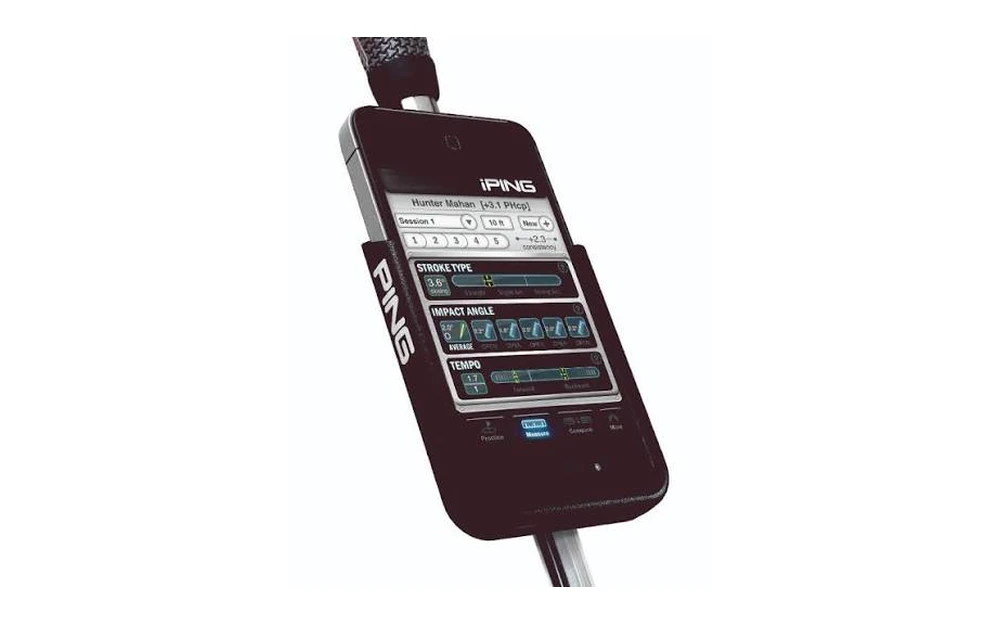
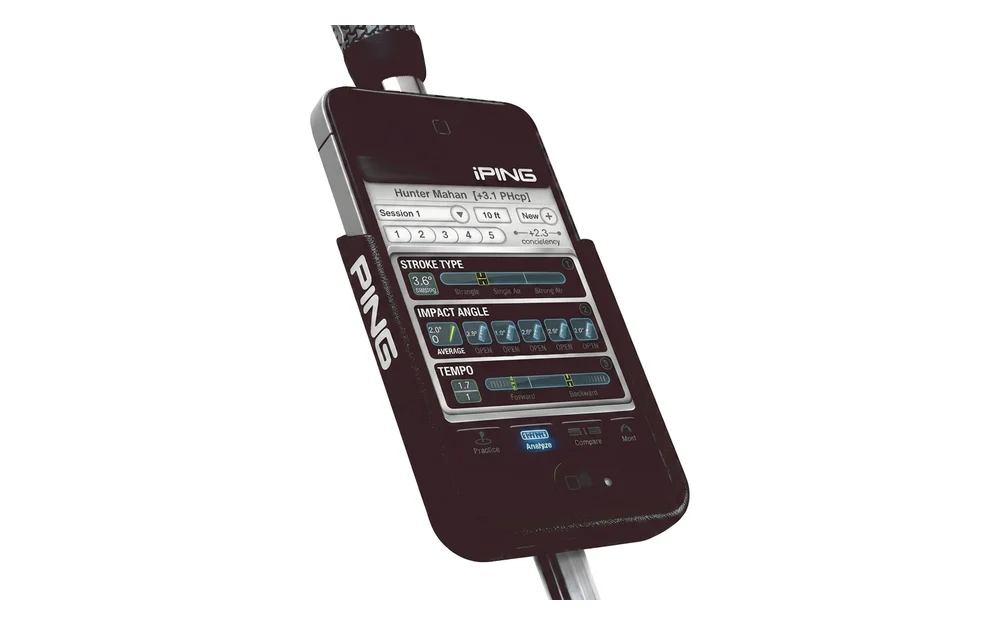
Wellputt and iPing: real product heroes, and drop the duplicate body shot
Both reviews led with a generic stock photo and then showed a small,
low-resolution crop of the product further down. Neither hero was the
product being reviewed, and both heroes were shared with other posts:
putting-drill.webp appears on 10 posts, man sunset on putting green.webp
on 2.

New supplied product shots are now the heroes. The source images are 1:1
and 1.24:1 but the blog card slot is 16/10 with object-fit:cover, so a
raw drop-in would centre-crop the ends off the mat and the cradle. Each
is composed onto a 16/10 white canvas instead — the sources are already
on white, so it is seamless — and exported twice:

  *-hero.webp  1600x1000  post hero, covers 2x in the 720px column
  *-card.webp  1000x625   listing card, no crop at all

The old body figures are removed. wellputt-mat.webp (447x447) and
iping-cradle.webp (394x507) are the same shots as the new heroes at lower
resolution, so keeping them would have shown the same product twice in
one post. Both files are now unreferenced but left on disk.

Card filenames are unchanged, so blog/index.html needs no edit.

Verified in-browser: both heroes render 672x420, both cards render 16/10
with zero crop, no image repeats in either post, nothing broken.

Changed region(s): [[0.31, 0.0304, 0.713, 0.9728]]

diff --git a/blog/iping-app.html b/blog/iping-app.html
@@ -378,7 +378,7 @@
             <h1 class="display-lg" style="margin-top: 12px; font-size: clamp(1.8rem, 4vw, 2.8rem);">iPing App: <span style="color: var(--green);">Does It Still Work</span> in 2026?</h1>
             <p style="color: var(--text-muted); font-size: 1.05rem; margin-top: 16px; line-height: 1.6;">Still Free, Still Updated &mdash; and Restricted to Authorised PING Fitters</p>
             <p style="font-family: 'DM Mono', monospace; font-size: 0.75rem; color: var(--text-muted); margin-top: 12px; letter-spacing: 0.1em; text-transform: uppercase;">September 2, 2026 &middot; 7 min read &middot; Stephen Pickering</p>
-            <img src="../golf images/man sunset on putting green.webp" alt="Golfer practising putts alone on the green at sunset, the kind of session the iPing app was originally built for" style="width: 100%; border-radius: 12px; margin-top: 32px;">
+            <img src="../golf images/iping-cradle-hero.webp" alt="The original iPING cradle clipped to a putter shaft holding an iPhone, showing the app&rsquo;s stroke type, impact angle and tempo readouts" style="width: 100%; border-radius: 12px; margin-top: 32px;">
         </div>
     </section>
 
@@ -418,10 +418,6 @@
             <p class="reveal">The US App Store has it at roughly 2.1 out of 5 from 94 ratings. That number looks damning and mostly is not about the software.</p>
 
             <p class="reveal">It is an expectations problem. Golfers go looking for a putting app they remember fondly from over a decade ago, find something with the same name, download it, and discover a fitting instrument they have no cradle for and no authorisation to use. That is a frustrating five minutes, and it ends in a one-star review. PING has not hidden any of this &mdash; it is in the listing &mdash; but nobody reads the listing before tapping Get on a free app.</p>
-
-            <div class="reveal" style="margin: 2rem 0; border-radius: 12px; overflow: hidden;">
-                <img src="../golf images/iping-cradle.webp" loading="lazy" alt="The original iPING cradle clipped to a putter shaft holding an iPhone, showing the app&rsquo;s Stroke Type, Impact Angle and Tempo readouts" style="width: 100%; display: block; border-radius: 12px;">
-            </div>
 
             <!-- ======================== -->
             <h2 class="reveal">What to Use Instead</h2>

diff --git a/blog/wellputt-mat-review.html b/blog/wellputt-mat-review.html
@@ -381,7 +381,7 @@
             <h1 class="display-lg" style="margin-top: 12px; font-size: clamp(1.8rem, 4vw, 2.8rem);"><span style="color: var(--green);">Wellputt Mat Review:</span> Is It Worth It in 2026?</h1>
             <p style="color: var(--text-muted); font-size: 1.05rem; margin-top: 16px; line-height: 1.6;">The Printed Training System, the Real Prices, and Who Should Skip It</p>
             <p style="font-family: 'DM Mono', monospace; font-size: 0.75rem; color: var(--text-muted); margin-top: 12px; letter-spacing: 0.1em; text-transform: uppercase;">September 2, 2026 &middot; 8 min read &middot; Stephen Pickering</p>
-            <img src="../golf images/putting-drill.webp" alt="Golfer working through a structured putting drill at golden hour, the kind of session a Wellputt mat is designed to replicate indoors" style="width: 100%; border-radius: 12px; margin-top: 32px;">
+            <img src="../golf images/wellputt-mat-hero.webp" alt="The Wellputt training mat laid out end-on, showing the printed target zones, alignment gates and distance markers that make up its training system" style="width: 100%; border-radius: 12px; margin-top: 32px;">
         </div>
     </section>
 
@@ -420,10 +420,6 @@
                 <p>For how Wellputt stacks up against the other mats worth owning:</p>
                 <strong>Best Putting Mat 2026: 5 Ranked &rarr;</strong>
             </a>
-
-            <div class="reveal" style="margin: 2rem 0; border-radius: 12px; overflow: hidden;">
-                <img src="../golf images/wellputt-mat.webp" loading="lazy" alt="A Wellputt putting mat viewed end-on, showing the printed target zones, alignment gates and distance markers that make up its training system" style="width: 100%; display: block; border-radius: 12px;">
-            </div>
 
             <!-- ======================== -->
             <h2 class="reveal">Where It Falls Short</h2>
